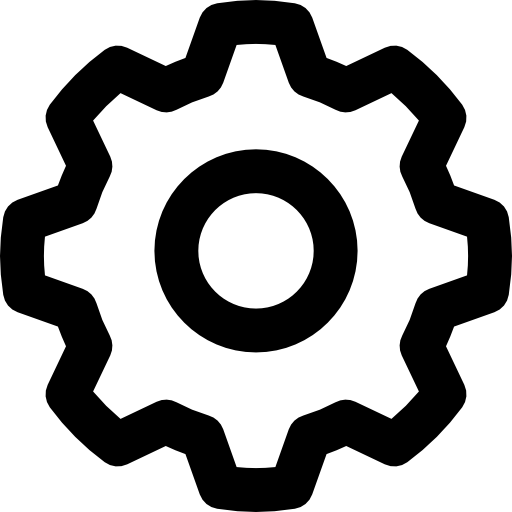
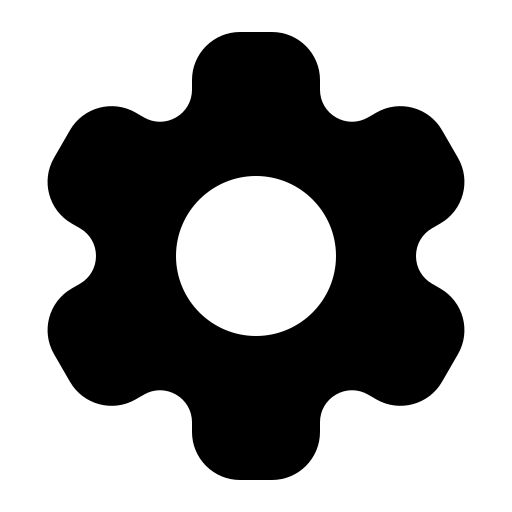
made button spin

diff --git a/CLIENT/js/classes/setting.js b/CLIENT/js/classes/setting.js
@@ -38,46 +38,106 @@ class Setting {
         //     }
         // }
         this.mousePos = {x:0, y:0}
-        this.hovered = false;
+        this.hovering = false
+        this.animationLength = 45 // in frames
+        this.animationFrms = 0
+        this.rotation = 0
+        this.hovered = false
+        this.wait = false
     }
     draw(sctx, state) {
-        if (state.curr == state.gameOver) return
-        sctx.save()
-        if (this.hovered === true && !this.turning) {
-            this.turning = true
-            let f = 0.9
-            this.h = this.h*f
-            this.w = this.w*f
-            let org_x = this.x
-            let org_y = this.y
-            this.y += (this.h/f-this.h)/2
-            this.x += (this.w/f-this.w)/2
-            setTimeout(() => {
-                this.turning = false
-                this.h = this.h/f
-                this.w = this.w/f
-                this.x = org_x
-                this.y = org_y
-            }, 250);
-        }
-        if (state.curr == state.getReady) {
-            sctx.drawImage(this.cog, this.x, this.y, this.w, this.h)
-        } else if (state.curr == state.Play) {
-            sctx.drawImage(this.pause, this.x, this.y, this.w, this.h)
-        }
+        // if (state.curr == state.gameOver) return
+        // sctx.save()
+        // if (this.hovered === true && !this.turning) {
+        //     this.turning = true
+        //     let f = 0.9
+        //     this.h = this.h*f
+        //     this.w = this.w*f
+        //     let org_x = this.x
+        //     let org_y = this.y
+        //     this.y += (this.h/f-this.h)/2
+        //     this.x += (this.w/f-this.w)/2
+        //     setTimeout(() => {
+        //         this.turning = false
+        //         this.h = this.h/f
+        //         this.w = this.w/f
+        //         this.x = org_x
+        //         this.y = org_y
+        //     }, 250);
+        // }
+        // if (state.curr == state.getReady) {
+        //     sctx.drawImage(this.cog, this.x, this.y, this.w, this.h)
+        // } else if (state.curr == state.Play) {
+        //     sctx.drawImage(this.pause, this.x, this.y, this.w, this.h)
+        // }
         
+        // sctx.restore()
+
+        if (state.curr == state.gameOver) return
+        if (state.curr == state.Play) {
+            if (this.hovered === true && !this.turning) {
+                this.turning = true
+                let f = 0.9
+                this.h = this.h*f
+                this.w = this.w*f
+                let org_x = this.x
+                let org_y = this.y
+                this.y += (this.h/f-this.h)/2
+                this.x += (this.w/f-this.w)/2
+                setTimeout(() => {
+                    this.turning = false
+                    this.h = this.h/f
+                    this.w = this.w/f
+                    this.x = org_x
+                    this.y = org_y
+                }, 250);
+            }
+            sctx.drawImage(this.pause, this.x, this.y, this.w, this.h)
+            return
+        }
+
+        sctx.save()
+        if (this.hovering === true && this.animationFrms < 125) { // rotation of 180° changeable
+            this.drawRotation(sctx)
+            this.rotation = this.animationFrms % 360
+            this.animationFrms += 360/this.animationLength
+            this.hovered = true
+        } else if (this.hovering === false) {
+            this.drawRotation(sctx)
+            if (this.hovered === true && this.animationFrms >= 0) {
+                this.rotation = this.animationFrms % 360
+                this.animationFrms -= 360/this.animationLength
+            }
+        } else {
+            this.drawRotation(sctx)
+        }
         sctx.restore()
     }
-    update(sctx, state) {
-        if (state.curr !== state.getReady) return
-    }
-    handleMouseMove(pos) {
+    handleMouseMove(pos, scrn) {
         this.mousePos = pos
+        scrn.style.cursor = 'default'
         if (this.mousePos.x < this.x) return false
         if (this.mousePos.x > this.x + this.w) return false
         if (this.mousePos.y < this.y) return false 
         if (this.mousePos.y > this.y + this.h) return false
         
+        scrn.style.cursor = 'pointer'
         return true
+    }
+    drawRotation(sctx) {
+        const i = 0.5
+        sctx.translate(this.x+ this.w * i, this.y+this.h * i)
+        sctx.rotate(RAD * this.rotation)
+        sctx.drawImage(this.cog, -this.w/2, -this.h/2, this.w, this.h)
+        sctx.rotate(-RAD * this.rotation)
+        sctx.translate(-this.x-this.cog.width * i,-this.y -this.cog.height * i) 
+    }
+    openSettings(sctx, scrn) {
+        sctx.beginPath()
+        let w = 400
+        let h = 400
+        sctx.roundRect((scrn.width-w)/2,scrn.height/3,w,h,[10])
+        sctx.fillStyle = "grey"
+        sctx.fill()
     }
 }

diff --git a/CLIENT/js/utils/init.js b/CLIENT/js/utils/init.js
@@ -17,7 +17,7 @@ function init() {
     
     const state = new State()
     const SFX = new Sfx()
-    const gnd = new GND()   
+    const gnd = new GND()
     
     const bg = new Background(scrn)
     const pipe = new PipeSet(scrn)
@@ -33,11 +33,14 @@ function init() {
         }
         switch (state.curr) {
             case state.getReady :
-                if (sett.hovered === true) {
+                if (sett.hovering === true || sett.wait === true) {
+                    // sett.PAGEON = !sett.PAGEON
                     sett.PAGEON = !sett.PAGEON
+                    sett.wait = !sett.wait
                 } else {
                     dx = PIPE_DEFAULT_MOVESPEED
                     sett.PAGEON = false
+                    sett.wait = false
                     state.curr = state.Play
                     SFX.start.play()
                     SFX.playing = true
@@ -47,7 +50,7 @@ function init() {
                 }
                 break
             case state.Play :
-                if (sett.hovered === true) {
+                if (sett.hovering === true) {
                     PAUSED = !PAUSED
                     console.log(PAUSED)
                     SFX.playing === true ? SFX.bgm.pause(): SFX.bgm.play()
@@ -82,10 +85,10 @@ function init() {
 
     document.onmousemove = (e) => {
         const rect = scrn.getBoundingClientRect()
-        sett.hovered = sett.handleMouseMove({
+        sett.hovering = sett.handleMouseMove({
             x:e.x-rect.x,
             y:e.y-rect.y,
-        })
+        }, scrn)
     }
 
     scrn.tabIndex = 1;
@@ -139,25 +142,21 @@ function update(bird, state, sfx, ui, pipe, gnd, scrn, bg, sctx, sett) {
     ui.update(state)
     sfx.updateBGM(0, scrn, sctx)
 }
+
 function draw(scrn, sctx, sfx, bg, pipe, bird, gnd, ui, state, sett) {
    sctx.fillStyle = "#30c0df"
    sctx.fillRect(0,0,scrn.width,scrn.height)
    bg.draw(scrn, sctx)
    pipe.draw(sctx)
    sett.draw(sctx, state)
-   sett.update(sctx, state)
+//    sett.update(sctx, state)
    
    bird.draw(sctx)
    gnd.draw(sctx, scrn)
    sfx.drawSong(scrn, sctx)
    ui.draw(state, sctx, scrn)
-   if (sett.PAGEON) {
-    sctx.beginPath()
-    let w = 400
-    let h = 400
-    sctx.roundRect((scrn.width-w)/2,scrn.height/3,w,h,[10])
-    sctx.fillStyle = "grey"
-    sctx.fill()
+   if (sett.PAGEON===true) {
+       sett.openSettings(sctx, scrn)
    }
 }
 function handdleSizeChange(sizeRatio, bird, pipe, gnd, bg) {

diff --git a/CLIENT/js/classes/state.js b/CLIENT/js/classes/state.js
@@ -4,5 +4,10 @@ class State {
         this.getReady = 0
         this.Play = 1
         this.gameOver = 2
+        this.currGame = 0
+        this.games = {
+            pipes: 0,
+            fireballs:1,
+        }
     }
 }
